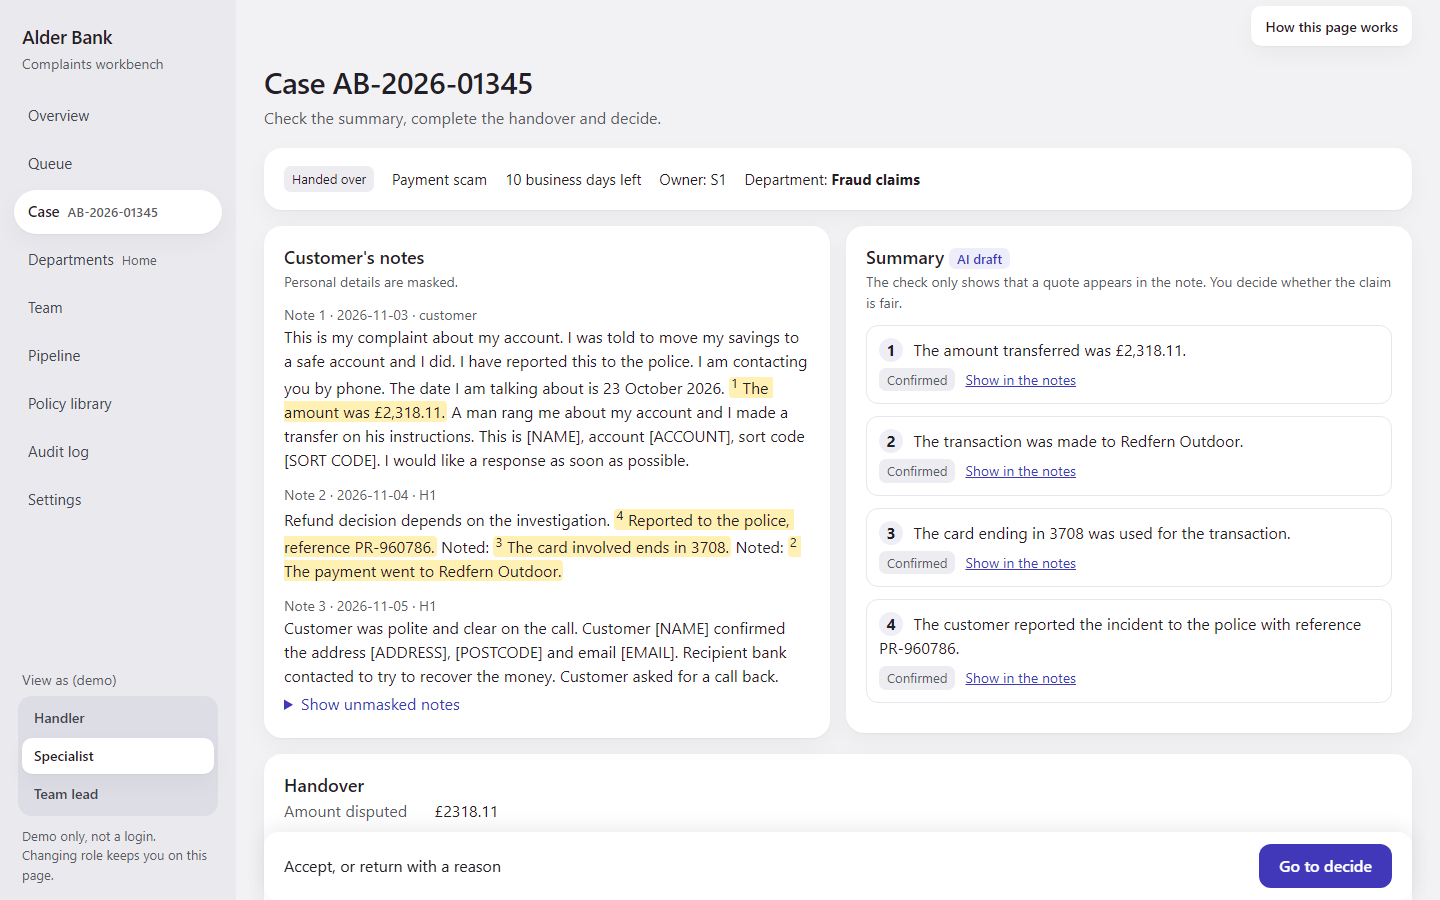
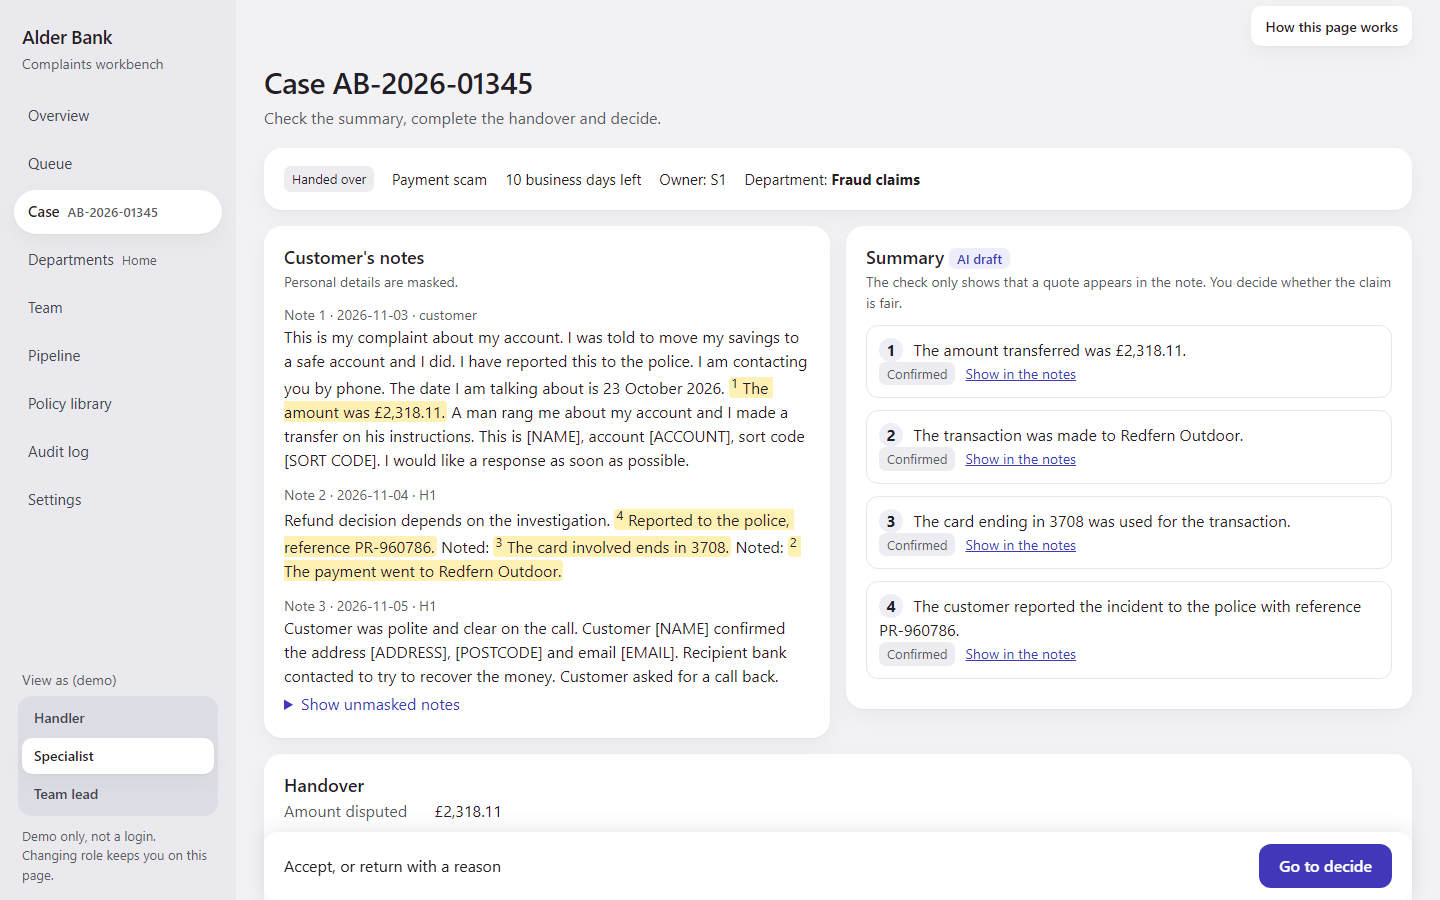
fix: overview after review

Changed region(s): [[0.5938, 0.4044, 0.9375, 0.7778], [0.3125, 0.8711, 0.3438, 0.9333]]

diff --git a/workbench/templates/overview.html b/workbench/templates/overview.html
@@ -29,7 +29,7 @@
 
 {% if rise %}
 <p class="rise"><b>Unusual rise:</b> <a href="/queue?{{ rise_query }}">{{ rise.department }}, {{ rise.type }}</a>.
-  {{ rise.this_week }} this week against about {{ "%.0f"|format(rise.usual) }} in a usual week.</p>
+  {{ rise.this_week }} this week against about {{ "%.0f"|format(rise.usual) }} in a usual week.{% if more_rises %} <a href="/queue?owner=all">and {{ more_rises }} more</a>.{% endif %}</p>
 {% endif %}
 
 <section class="card" aria-labelledby="chart-h">

diff --git a/workbench/static/app.css b/workbench/static/app.css
@@ -138,6 +138,7 @@ button.primary:disabled{background:#c9c9d3;color:#4a4a55;cursor:not-allowed}
 .rise{margin:0 0 16px;padding:10px 16px;border-radius:12px;background:var(--tint);color:var(--ink)}
 .chart{margin:10px 0 0}
 .chart-svg{display:block;width:100%;max-width:640px;height:auto}
+.chart-svg.wide{max-width:none}
 .chart-svg .lbl{font-size:14px;fill:var(--ink)}
 .chart-svg .lbl.hi{font-weight:700}
 .chart-svg .halo{paint-order:stroke;stroke:white;stroke-width:4px;font-weight:600}

diff --git a/workbench/charts.py b/workbench/charts.py
@@ -36,23 +36,21 @@ def bars(items, highlight=None, title="", summary="") -> Markup:
                 [(k, v, "yes" if k == highlight else "") for k, v in items])
 
 
-def step_line(series, title="", summary="") -> Markup:
-    """A step line over (label, value) points in order, each point labelled with its value."""
+def columns(series, title="", summary="", axis="") -> Markup:
+    """Vertical columns over (label, value) points in order, the value above each column. The axis caption sits under the labels."""
     if not series:
         return EMPTY
-    n, top, H = len(series), max(v for _, v in series) or 1, 170
-    xs = [30 + (W - 60) * (i / (n - 1) if n > 1 else .5) for i in range(n)]
-    ys = [30 + (H - 70) * (1 - v / top) for _, v in series]
-    path = f"M{xs[0]:.1f},{ys[0]:.1f}" + "".join(f" H{xs[i]:.1f} V{ys[i]:.1f}" for i in range(1, n))
-    every = max(1, -(-n // 10))
-    body = [f'<line class="axis" x1="10" y1="{H - 40}" x2="{W - 10}" y2="{H - 40}" aria-hidden="true"/>',
-            f'<path class="step" d="{path}" aria-hidden="true"/>']
+    n, top, base = len(series), max(v for _, v in series) or 1, 190
+    slot = (W - 20) / n
+    body = [f'<line class="axis" x1="10" y1="{base}" x2="{W - 10}" y2="{base}" aria-hidden="true"/>']
     for i, (k, v) in enumerate(series):
-        body.append(f'<circle class="dot" cx="{xs[i]:.1f}" cy="{ys[i]:.1f}" r="4" aria-hidden="true"/>'
-                    f'<text class="lbl halo" x="{xs[i]:.1f}" y="{ys[i] - 10:.1f}" text-anchor="middle">{_e(v)}</text>')
-        if i % every == 0:
-            body.append(f'<text class="lbl" x="{xs[i]:.1f}" y="{H - 14}" text-anchor="middle">{_e(k)}</text>')
-    return _fig("".join(body), H, title, summary, ["Point", "Value"], series)
+        h, x = max(2.0, 150 * v / top), 10 + i * slot + slot * .2
+        body.append(f'<rect class="bar" x="{x:.1f}" y="{base - h:.1f}" width="{slot * .6:.1f}" height="{h:.1f}" aria-hidden="true"/>'
+                    f'<text class="lbl" x="{x + slot * .3:.1f}" y="{base - h - 6:.1f}" text-anchor="middle">{_e(v)}</text>'
+                    f'<text class="lbl" x="{x + slot * .3:.1f}" y="{base + 20}" text-anchor="middle">{_e(k)}</text>')
+    if axis:
+        body.append(f'<text class="lbl" x="{W / 2}" y="{base + 42}" text-anchor="middle">{_e(axis)}</text>')
+    return Markup(_fig("".join(body), base + 52, title, summary, [axis or "Item", "Value"], series).replace("chart-svg", "chart-svg wide", 1))
 
 
 def heatmap(grid, title="", summary="") -> Markup:
@@ -68,16 +66,6 @@ def heatmap(grid, title="", summary="") -> Markup:
             body.append(f'<rect class="cell l{min(4, round(4 * v / top))}" x="{60 + c * 50}" y="{r * 30 + 28}" width="48" height="28" aria-hidden="true"/>'
                         f'<text class="lbl" x="{60 + c * 50 + 24}" y="{r * 30 + 48}" text-anchor="middle">{_e(v)}</text>')
     return _fig("".join(body), 7 * 30 + 36, title, summary, ["Day"] + [f"{h}:00" for h in HOURS], [[WEEKDAYS[r]] + row for r, row in enumerate(grid)])
-
-
-def sparkline(values, title="") -> Markup:
-    """A small line with no table: the values are in the label. Used beside a figure that already shows them."""
-    if not values:
-        return EMPTY
-    n, top = len(values), max(values) or 1
-    pts = " ".join(f"{2 + 116 * (i / (n - 1) if n > 1 else .5):.1f},{22 - 20 * v / top:.1f}" for i, v in enumerate(values))
-    label = _e(f"{title}: {', '.join(map(str, values))}" if title else ", ".join(map(str, values)))
-    return Markup(f'<svg class="spark" viewBox="0 0 120 24" role="img" aria-label="{label}"><polyline class="step" points="{pts}"/></svg>')
 
 
 def band_flow(left, right, bands, marks=(), title="", summary="") -> Markup:

diff --git a/tests/test_overview.py b/tests/test_overview.py
@@ -8,6 +8,7 @@ from fastapi.testclient import TestClient
 from workbench import stats
 from workbench.app import create_app
 from workbench.cases import Actor
+from workbench.config import load_config
 from workbench.db import connect, init_db
 
 
@@ -39,7 +40,7 @@ def test_needs_attention_is_five_links_matching_the_stats(client, app_db):
     body = main_of(client.get("/").text)
     got = re.findall(r'<a href="/cases/(AB-\d{4}-\d{5})"', body)
     c = connect(app_db)
-    want = [r["id"] for r in stats.needs_attention(c, Actor("H1", "handler"), date(2026, 11, 10))]
+    want = [r["id"] for r in stats.needs_attention(c, Actor("H1", "handler"))]
     assert got == want and len(got) == 5
     assert "Needs attention today" in body
 
@@ -51,10 +52,16 @@ def test_overview_for_other_roles(client, role, sid):
     assert client.get("/").status_code == 200
 
 
-def test_one_chart_with_text_alternative_and_numbers_in_details(client):
+def test_one_chart_with_text_alternative_and_numbers_in_details(client, app_db):
     body = main_of(client.get("/").text)
     assert body.count("<svg") == 1 and body.count('role="img"') == 1
     assert re.search(r'aria-label="Complaints per week[^"]*"', body)
+    table = re.search(r"<table.*?</table>", body, re.S).group(0)
+    with connect(app_db) as c:
+        weeks = stats.trend(c, date(2026, 11, 10))
+    got = re.findall(r"<tr><td>([^<]*)</td><td>(\d+)</td></tr>", table)
+    assert [(l, int(v)) for l, v in got] == [(f"{date.fromisoformat(w['week']).day} {date.fromisoformat(w['week']):%b}", w["new"]) for w in weeks] and len(got) == 8
+    assert "Week starting" in body
     assert "<details" in body and "<table" in body
     assert "<script" not in body and "style=" not in body
 
@@ -73,6 +80,9 @@ def test_rise_line_links_to_the_queue(app_db):
     cl = TestClient(create_app(str(app_db), models_dir=None), base_url="http://127.0.0.1:8000")
     body = main_of(cl.get("/").text)
     assert body.count("Unusual rise") == 1
+    with connect(app_db) as c2:
+        r = stats.rises(c2, date(2026, 11, 10), load_config())[0]
+    assert f"{r['this_week']} this week against about {r['usual']:.0f} in a usual week" in text_of(body)
     assert 'href="/queue?owner=all&amp;department=Bereavement&amp;type=Service"' in body
 
 
@@ -83,9 +93,13 @@ def test_foot_link_to_data_sources_and_nothing_busy(client):
         assert gone not in body
 
 
-def test_figures_show_typical_days_in_plain_words(client):
+def test_figures_show_typical_days_in_plain_words(client, app_db):
     body = text_of(main_of(client.get("/").text))
-    assert re.search(r"Typical days open \S+ ", body) or "Typical days open" in body
+    with connect(app_db) as c:
+        h = stats.headline(c, date(2026, 11, 10), {date.fromisoformat(d) for d in load_config()["bank_holidays"]})
+    assert f"Open complaints {h['open']:,}" in body
+    assert f"Typical days open {int(h['avg_days_open'] + .5)}" in body
+    assert f"Handovers returned {h['returned_share']:.0%}" in body
     assert "median" not in body.lower()  # said in the help panel only
 
 

diff --git a/workbench/app.py b/workbench/app.py
@@ -17,13 +17,12 @@ from fastapi.responses import HTMLResponse, PlainTextResponse, RedirectResponse
 from fastapi.staticfiles import StaticFiles
 from fastapi.templating import Jinja2Templates
 
-from . import audit, case_view, cases, drafts
+from . import audit, case_view, cases, charts, drafts, stats
 from .cases import Actor, NotAllowed, StaleCase
 from .classify import MODELS_DIR, ensure_models
 from .config import load_config
 from .db import connect
 from .deadlines import business_days_left, due_soon_edge
-from . import charts, stats
 from .stats import rise_pairs
 
 HERE = Path(__file__).parent
@@ -208,17 +207,19 @@ def create_app(db_path="data/workbench.db", config_path="config/pipeline.yaml", 
         with db() as conn:
             h = stats.headline(conn, today, hol, cfg["urgent"]["deadline_within_business_days"])
             attention = [{**r, "when": when(business_days_left(date.fromisoformat(r["deadline"]), today, hol))}
-                         for r in stats.needs_attention(conn, actor, today)]
-            rise = next(iter(stats.rises(conn, today, cfg)), None)
+                         for r in stats.needs_attention(conn, actor)]
+            rises = stats.rises(conn, today, cfg)
+            rise = rises[0] if rises else None
             weeks = stats.trend(conn, today)
             items = [(f"{date.fromisoformat(w['week']).day} {date.fromisoformat(w['week']):%b}", w["new"]) for w in weeks]
             title = "Complaints per week, last 8 weeks"
             figures = [("Open complaints", f"{h['open']:,}", "/queue?owner=all"),
-                       ("Typical days open", "–" if h["avg_days_open"] is None else f"{h['avg_days_open']:.0f}", None),
+                       ("Typical days open", "–" if h["avg_days_open"] is None else str(int(h["avg_days_open"] + .5)), None),
                        ("Handovers returned", "–" if h["returned_share"] is None else f"{h['returned_share']:.0%}", None)]
             return page(request, conn, "overview.html", figures=figures, attention=attention, rise=rise,
                         rise_query=urlencode({"owner": "all", "department": rise["department"], "type": rise["type"]}) if rise else "",
-                        chart=charts.step_line(items, summary=stats.sentence("bars", {"title": title, "items": items}) if items else ""),
+                        chart=charts.columns(items, summary=stats.sentence("columns", {"title": title, "items": items}) if items else "", axis="Week starting"),
+                        more_rises=len(rises) - 1,
                         chart_title=title, state_name=STATE_NAME)
 
     # ---- Departments, Team, Pipeline ----

diff --git a/tests/test_stats_overview.py b/tests/test_stats_overview.py
@@ -31,6 +31,13 @@ def twelve(conn):
     return conn
 
 
+def test_trend_window_is_eight_weeks_of_seven_days(conn):
+    from datetime import timedelta
+    _add(conn, 1, str(TODAY - timedelta(days=55)), "in")  # last day of the oldest week: counted
+    _add(conn, 1, str(TODAY - timedelta(days=56)), "out")  # one day older: not counted
+    assert sum(w["new"] for w in stats.trend(conn, TODAY, weeks=8)) == 1
+
+
 def test_headline(twelve):
     h = stats.headline(twelve, TODAY, set())
     assert (h["open"], h["past_deadline"], h["due_soon"]) == (10, 2, 4)
@@ -48,11 +55,11 @@ def test_deadline_buckets(twelve):
 
 def test_needs_attention_by_role(twelve):
     ids = lambda rows: [r["id"] for r in rows]  # noqa: E731
-    assert ids(stats.needs_attention(twelve, Actor("H1", "handler"), TODAY)) == ["l", "b", "c", "a", "e"]
-    assert ids(stats.needs_attention(twelve, Actor("H1", "handler"), TODAY, limit=2)) == ["l", "b"]
-    assert ids(stats.needs_attention(twelve, Actor("T1", "team_lead"), TODAY, limit=3)) == ["l", "b", "c"]
+    assert ids(stats.needs_attention(twelve, Actor("H1", "handler"))) == ["l", "b", "c", "a", "e"]
+    assert ids(stats.needs_attention(twelve, Actor("H1", "handler"), limit=2)) == ["l", "b"]
+    assert ids(stats.needs_attention(twelve, Actor("T1", "team_lead"), limit=3)) == ["l", "b", "c"]
     twelve.execute("INSERT INTO staff VALUES ('S1','Sam','specialist','Bereavement')")
-    assert ids(stats.needs_attention(twelve, Actor("S1", "specialist"), TODAY)) == ["j"]  # handed over, their department
+    assert ids(stats.needs_attention(twelve, Actor("S1", "specialist"))) == ["j"]  # handed over, their department
 
 
 def test_trend(twelve):

diff --git a/tests/test_charts.py b/tests/test_charts.py
@@ -6,10 +6,10 @@ from markupsafe import Markup
 from workbench import charts
 
 GRID = [[(d + h) % 4 for h in range(11)] for d in range(7)]
-EMPTY = [lambda: charts.bars([]), lambda: charts.step_line([]), lambda: charts.heatmap([]),
-         lambda: charts.sparkline([]), lambda: charts.band_flow([], [], [])]
+EMPTY = [lambda: charts.bars([]), lambda: charts.columns([]), lambda: charts.heatmap([]),
+         lambda: charts.band_flow([], [], [])]
 FULL = [lambda **k: charts.bars([("<b>", 3), ("Two", 5)], highlight="Two", **k),
-        lambda **k: charts.step_line([("<b>", 3), ("Two", 5), ("Three", 4)], **k),
+        lambda **k: charts.columns([("<b>", 3), ("Two", 5), ("Three", 4)], **k),
         lambda **k: charts.heatmap(GRID, **k),
         lambda **k: charts.band_flow(["<b>", "L2"], ["R1"], [("<b>", "R1", 7, "/queue?a=1"), ("L2", "R1", 1, "/queue?a=2")], **k)]
 
@@ -49,11 +49,6 @@ def test_band_flow_marks_are_not_colour_only():
 def test_bars_values_are_labelled_and_in_table():
     out = charts.bars([("One", 3), ("Two", 5)], title="t", summary="s")
     assert ">3<" in out and ">5<" in out and out.count("<td>5</td>") == 1
-
-
-def test_sparkline_has_label():
-    out = charts.sparkline([1, 2, 3], title="Weekly")
-    assert 'role="img"' in out and "1, 2, 3" in out and "<polyline" in out
 
 
 @pytest.mark.parametrize("make", [FULL[0], FULL[1], FULL[3]])

diff --git a/workbench/stats.py b/workbench/stats.py
@@ -38,7 +38,7 @@ def deadline_buckets(conn, today, holidays, limit=5) -> list[tuple[str, int]]:
     return [("Past deadline", h["past_deadline"]), ("Due soon", h["due_soon"]), ("Later", h["open"] - h["past_deadline"] - h["due_soon"])]
 
 
-def needs_attention(conn, actor, today, limit=5) -> list[dict]:
+def needs_attention(conn, actor, limit=5) -> list[dict]:
     """The cases that need this person: a handler's own live cases, a specialist's handovers, everything open for a team lead.
     Soonest deadline first, urgent before not urgent."""
     if actor.role == "handler":
@@ -178,7 +178,7 @@ def rises(conn, today, cfg) -> list[dict]:
 
 def sentence(kind, data) -> str:
     """The one plain sentence that says what a chart shows."""
-    if kind == "bars":
+    if kind in ("bars", "columns"):  # one sentence form, named for the chart it describes
         items = data["items"]
         top = max(items, key=lambda i: i[1])
         return f"{data['title']}: {', '.join(f'{k} {v}' for k, v in items)}. Highest is {top[0]} with {top[1]}."

diff --git a/tests/conftest.py b/tests/conftest.py
@@ -79,3 +79,11 @@ def client(app_db):
     from workbench.app import create_app
     return TestClient(create_app(str(app_db), models_dir=None), base_url="http://127.0.0.1:8000",
                       headers={"Origin": "http://127.0.0.1:8000"})
+
+
+@pytest.fixture(autouse=True)
+def session_db_stays_clean(request):
+    """Tests never write to the shared session db (they copy it first): an open write transaction would block db.backup for ever."""
+    yield
+    if "db" in request.fixturenames:
+        assert not request.getfixturevalue("db").in_transaction, "this test left a write transaction open on the session db"

diff --git a/tests/test_app_shell.py b/tests/test_app_shell.py
@@ -19,6 +19,11 @@ def test_navigation_link_returns_200(client, path):
     assert client.get(path).status_code == 200
 
 
+@pytest.mark.xfail(strict=True, reason="Settings is built in Task 11, with the data-sources anchor")
+def test_settings_has_the_data_sources_anchor(client):
+    assert 'id="data-sources"' in client.get("/settings").text
+
+
 def test_navigation_order_and_skip_link_first(client):
     html = client.get("/queue").text
     assert html.index('class="skip"') < html.index("<nav")

diff --git a/tests/test_generate.py b/tests/test_generate.py
@@ -49,10 +49,11 @@ def test_fast_enough(db_timed):
     assert db_timed[1] < 15
 
 
-def test_rerun_is_safe(db):
-    before = digest(db)
-    generate(db, n=1600, seed=7, cfg=CFG)
-    assert digest(db) == before
+def test_rerun_is_safe():
+    c = fresh(1600, 7)  # a private copy: tests never write to the session db
+    before = digest(c)
+    generate(c, n=1600, seed=7, cfg=CFG)
+    assert digest(c) == before
 
 
 def test_state_counts(db):
